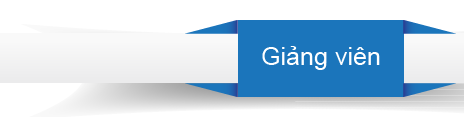
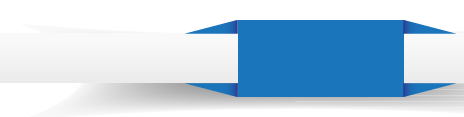
[Loannt]: sửa style cho từng trang, tránh lỗi zoom

Changed region(s): [[0.5431, 0.3846, 0.8448, 0.6154]]

diff --git a/B_Source/tienganh/assets/trungtam-tienganh/css/style.css b/B_Source/tienganh/assets/trungtam-tienganh/css/style.css
@@ -153,8 +153,10 @@ a:hover, a:active, a:focus {
 
 
 /*giangvien*/
-#imgleftgv{position:absolute; left:0}
-#content_left{float:left; width:28%; margin-top:120px; border:1px solid #c0c0c0; min-height:1000px;}
+#imgleftgv{position:absolute; right:0; background:url(../images/leffgv.png) no-repeat; width:464px; height:117px;}
+#imgleftgv p{ color:#fff; font-size:28px; margin:40px 0 0 170px}
+#content_left{float:left; width:28%;  position:relative}
+#contentlefftgv{margin-top:120px; border:1px solid #c0c0c0;  min-height:1000px;}
 #ul_leftgv li{ list-style:none; padding:0 10px; font-size: 16px; line-height:30px;}
 #ul_leftgv li a{color:#4d4d4d; text-decoration: none}
 .bgicongv2{background:url(../images/icongv.png) no-repeat scroll 2px 10px;}

diff --git a/B_Source/tienganh/application/views/front/header.php b/B_Source/tienganh/application/views/front/header.php
@@ -62,10 +62,10 @@
 					
 					<div id="menutop">
 						<ul>
-							<li class="home menu_move"><a href="<?php echo base_url();?>homepage">Home</a></li>
-							<li  class="li menu_move"><a href="<?php echo base_url();?>gioithieu">Giới thiệu</a></li>
-							<li  class="li menu_move"><a href="<?php echo base_url();?>tintuc">Tin tức</a></li>
-							<li  class="li menu_move"><a href="<?php echo base_url()?>khoahoc">Khóa học</a>
+							<li class="home menu_move" id="homehd"><a href="<?php echo base_url();?>homepage">Home</a></li>
+							<li  class="li menu_move" id="aboutushd"><a href="<?php echo base_url();?>gioithieu">Giới thiệu</a></li>
+							<li  class="li menu_move" id="newshd"><a href="<?php echo base_url();?>tintuc">Tin tức</a></li>
+							<li  class="li menu_move" id="coursehd"><a href="<?php echo base_url()?>khoahoc">Khóa học</a>
 								<div class="submenu">
 									<div>Tiếng Anh cho mầm non
 										<ul>
@@ -81,9 +81,9 @@
 									</div>
 								</div>
 							</li>
-							<li  class="li menu_move"><a href="<?php echo base_url();?>giangvien">Giảng viên</a></li>
-							<li  class="li menu_move"><a href="<?php echo base_url()?>thuvien/video">Thư viện</a></li>
-							<li  class="li menu_move"><a href="<?php echo base_url();?>lienhe">Liên hệ</a></li>
+							<li  class="li menu_move" id="teacherhd"><a href="<?php echo base_url();?>giangvien">Giảng viên</a></li>
+							<li  class="li menu_move" id="libraryhd"><a href="<?php echo base_url()?>thuvien/video">Thư viện</a></li>
+							<li  class="li menu_move" id="contactushd"><a href="<?php echo base_url();?>lienhe">Liên hệ</a></li>
 						</ul>
 					</div>
 				</div>

diff --git a/B_Source/tienganh/application/views/front/container.php b/B_Source/tienganh/application/views/front/container.php
@@ -48,20 +48,45 @@
 		</div>
 	</body>
 	<script type="text/javascript">
+	alert('123');
 		$(document).ready(function(){	
 			var left=$('.slideimage').css("left");	        			
-			$(".prev12").click(function(){
-		  $(".slideimage").animate({"left": "+=311px"}, "slow");
-			});
+			var right=$('.slideimage').css("right");
 			
-			$(".next12").click(function(){
+			if(left =='-1600px')
+			{			
+				 $(".prev12").click(function(){
+			 	 $(".slideimage").animate({"left": "-=311px"}, "slow");
+				});
 				
-			  $(".slideimage").animate({"left": "-=311px"}, "slow");
-			});
-			if(left <='-1600' and left >='1600')
-			{
-				  $(".slideimage").animate({"left": "-=0"}, "slow");
-			}
+				$(".next12").click(function(){
+					
+				  $(".slideimage").animate({"left": "=0"}, "slow");
+				});
+			
+			};
+			else{
+				if(right=='0'){
+					 $(".prev12").click(function(){
+				 	 $(".slideimage").animate({"right": "=0"}, "slow");
+					});
+					
+					$(".next12").click(function(){
+						
+					  $(".slideimage").animate({"left": "+=311px"}, "slow");
+					});alert('123456');
+				};
+				else{
+					$(".prev12").click(function(){
+				 	 $(".slideimage").animate({"left": "+=311px"}, "slow");
+					});
+					
+					$(".next12").click(function(){
+						
+					  $(".slideimage").animate({"left": "-=311px"}, "slow");
+					});alert('123789);
+				};
+			};
 		});
 	</script>
 </html>

diff --git a/B_Source/tienganh/application/modules/tintuc/views/vtintuc.php b/B_Source/tienganh/application/modules/tintuc/views/vtintuc.php
@@ -1,7 +1,8 @@
 <div id="content">
-				<img src="<?php echo base_url();?>assets/trungtam-tienganh/images/leffgv.png" id="imgleftgv">
+				
 				 <div id="content_left">
-				 	
+				 	<!--<img src="<?php echo base_url();?>assets/trungtam-tienganh/images/leffgv.png" id="imgleftgv">-->
+				 	<div id="imgleftgv"><p align="center">Tin tức</p></div>
 				 	<div id="contentlefftgv">
 				 		<ul id="ul_leftgv">
 				 			<li id="li_leftgv5" <?php if ($index == 0) echo 'class="bgicongv"'; else echo 'class="bgicongv2"';?>><a href="<?php echo base_url();?>tintuc/mamnon">Tiếng Anh mầm non</a></li>
@@ -75,3 +76,6 @@
 				<!-----------end share------------>
 			</div>
 			</div>
+<script type="text/javascript">
+				$('#newshd').addClass('bgli');
+			</script>

diff --git a/B_Source/tienganh/application/modules/giangvien/views/vgiangvien.php b/B_Source/tienganh/application/modules/giangvien/views/vgiangvien.php
@@ -1,7 +1,7 @@
 <div id="content">
-				<img src="<?php echo base_url();?>assets/trungtam-tienganh/images/leffgv.png" id="imgleftgv">
+				<!--<img src="<?php echo base_url();?>assets/trungtam-tienganh/images/leffgv.png" id="imgleftgv">-->
 				 <div id="content_left">
-				 	
+				 	<div id="imgleftgv"><p align="center">Giảng viên</p></div>
 				 	<div id="contentlefftgv">
 				 		<ul id="ul_leftgv">
 				 			<li id="li_leftgv2" <?php if ($index == 1) echo 'class="bgicongv"'; else echo 'class="bgicongv2"';?>><a href="<?php echo base_url();?>giangvien/thaygiao">Thầy giáo</a></li>
@@ -74,3 +74,6 @@
 				<!-----------end share------------>
 			</div>
 			</div>
+			<script type="text/javascript">
+				$('#teacherhd').addClass('bgli');
+			</script>

diff --git a/B_Source/tienganh/application/modules/gioithieu/views/vgioithieu.php b/B_Source/tienganh/application/modules/gioithieu/views/vgioithieu.php
@@ -1,7 +1,7 @@
 <div id="content">
-				<img src="<?php echo base_url();?>assets/trungtam-tienganh/images/leffgv.png" id="imgleftgv">
+				<!--<img src="<?php echo base_url();?>assets/trungtam-tienganh/images/leffgv.png" id="imgleftgv">-->
 				 <div id="content_left">
-				 	
+				 	<div id="imgleftgv"><p align="center">Giới thiệu</p></div>
 				 <div id="contentlefftgv">
 				 		<ul id="ul_leftgv">
 				 			<li id="li_leftgv5" <?php if ($index == 0) echo 'class="bgicongv"'; else echo 'class="bgicongv2"';?>><a href="<?php echo base_url();?>gioithieu/sumenh">Sứ mệnh</a></li>
@@ -56,3 +56,6 @@
 				<!-----------end share------------>
 			</div>
 			</div>
+			<script type="text/javascript">
+				$('#aboutushd').addClass('bgli');
+			</script>

diff --git a/B_Source/tienganh/application/modules/khoahoc/views/vkhoahoc.php b/B_Source/tienganh/application/modules/khoahoc/views/vkhoahoc.php
@@ -1,6 +1,7 @@
 <div id="content">
-				<img src="<?php echo base_url();?>assets/trungtam-tienganh/images/leffgv.png" id="imgleftgv">
+				<!--<img src="<?php echo base_url();?>assets/trungtam-tienganh/images/leffgv.png" id="imgleftgv">-->
 				 <div id="content_left">
+				 	<div id="imgleftgv"><p align="center">Khóa học</p></div>
 				 	<div id="contentlefftgv">
 				 		<ul id="ul_leftgv">
 				 		<!--	<li id="li_leftgv2" <?php if ($index == 1) echo 'class="bgicongv"'; else echo 'class="bgicongv2"';?>><a href="<?php echo base_url();?>giangvien/thaygiao">Thầy giáo</a></li>
@@ -58,3 +59,6 @@
 				<!-----------end share------------>
 			</div>
 			</div>
+			<script type="text/javascript">
+				$('#coursehd').addClass('bgli');
+			</script>

diff --git a/B_Source/tienganh/application/modules/khoahoc/views/vdetail.php b/B_Source/tienganh/application/modules/khoahoc/views/vdetail.php
@@ -1,7 +1,7 @@
 <div id="content">
-				<img src="<?php echo base_url();?>assets/trungtam-tienganh/images/leffgv.png" id="imgleftgv">
+			<!--	<img src="<?php echo base_url();?>assets/trungtam-tienganh/images/leffgv.png" id="imgleftgv">-->
 				 <div id="content_left">
-				 	
+				 	<div id="imgleftgv"><p align="center">Khóa học</p></div>
 				 	<div id="contentlefftgv">
 				 		<ul id="ul_leftgv">
 				 			<!--<li id="li_leftgv5" class="bgicongv2"><a href="<?php echo base_url();?>tintuc/mamnon">Tiếng Anh mầm non</a></li>
@@ -192,3 +192,6 @@
 				<!-----------end share------------>
 			</div>
 			</div>
+			<script type="text/javascript">
+				$('#coursehd').addClass('bgli');
+			</script>

diff --git a/B_Source/tienganh/application/modules/khoahoc/views/vchitiet.php b/B_Source/tienganh/application/modules/khoahoc/views/vchitiet.php
@@ -1,7 +1,7 @@
 <div id="content">
-				<img src="<?php echo base_url()?>assets/trungtam-tienganh/images/leffgv.png" id="imgleftgv">
+				<!--<img src="<?php echo base_url()?>assets/trungtam-tienganh/images/leffgv.png" id="imgleftgv">-->
 				 <div id="content_left">
-				 	
+				 	<div id="imgleftgv"><p align="center">Khóa học</p></div>
 				 	<div id="contentlefftgv">
 				 		<ul id="ul_leftgv">
 				 			<li id="li_leftgv2" class="bgicongv2"><a href="">Tiếng Anh cho trẻ em 1</a></li>
@@ -70,3 +70,6 @@
 				<!-----------end share------------>
 			</div>
 			</div></div>
+			<script type="text/javascript">
+				$('#coursehd').addClass('bgli');
+			</script>

diff --git a/B_Source/tienganh/application/modules/lienhe/views/vlienhe.php b/B_Source/tienganh/application/modules/lienhe/views/vlienhe.php
@@ -5,9 +5,9 @@
 		echo '</div>';
 	}?>
 <div id="content">
-				<img src="<?php echo base_url();?>assets/trungtam-tienganh/images/leffgv.png" id="imgleftgv">
+				<!--<img src="<?php echo base_url();?>assets/trungtam-tienganh/images/leffgv.png" id="imgleftgv">-->
 				 <div id="content_left">
-				 	
+				 	<div id="imgleftgv"><p align="center">Liên hệ</p></div>
 				 	<div id="contentlefftgv">
 				 	</div>
 				 </div>			 
@@ -66,3 +66,6 @@ Website: www.jennifer.edu.vn</p><br>
 				 	</div>
 			</div>
 			</div>
+			<script type="text/javascript">
+				$('#contactushd').addClass('bgli');
+			</script>

diff --git a/B_Source/tienganh/application/modules/giangvien/views/vdetail.php b/B_Source/tienganh/application/modules/giangvien/views/vdetail.php
@@ -1,7 +1,7 @@
 <div id="content">
 				<img src="<?php echo base_url();?>assets/trungtam-tienganh/images/leffgv.png" id="imgleftgv">
 				 <div id="content_left">
-				 	
+				 	<div id="imgleftgv"><p align="center">Giảng viên</p></div>
 				 	<div id="contentlefftgv">
 				 		<ul id="ul_leftgv">
 				 			<li id="li_leftgv2" class="bgicongv2"><a href="<?php echo base_url();?>giangvien/thaygiao">Thầy giáo</a></li>
@@ -120,3 +120,6 @@
 				<!-----------end share------------>
 			</div>
 			</div>
+			<script type="text/javascript">
+				$('#teacherhd').addClass('bgli');
+			</script>

diff --git a/B_Source/tienganh/application/modules/thuvien/views/vdanhmucanh.php b/B_Source/tienganh/application/modules/thuvien/views/vdanhmucanh.php
@@ -13,7 +13,7 @@
 </script>
 
 <div id="content">
-				<img src="<?php echo base_url();?>/assets/trungtam-tienganh/images/leffgv.png" id="imgleftgv"/>
+				<!--<img src="<?php echo base_url();?>/assets/trungtam-tienganh/images/leffgv.png" id="imgleftgv"/>-->
 				 <?php echo $this->load->view('front/menu-trai-thuvien');?>			 
 				 <style>				
 				 	#slider img{ width:663px !important; height:235px!important;}
@@ -126,3 +126,6 @@
 				<!-----------end share------------>
 			</div>
 			</div>
+			<script type="text/javascript">
+				$('#libraryhd').addClass('bgli');
+			</script>
